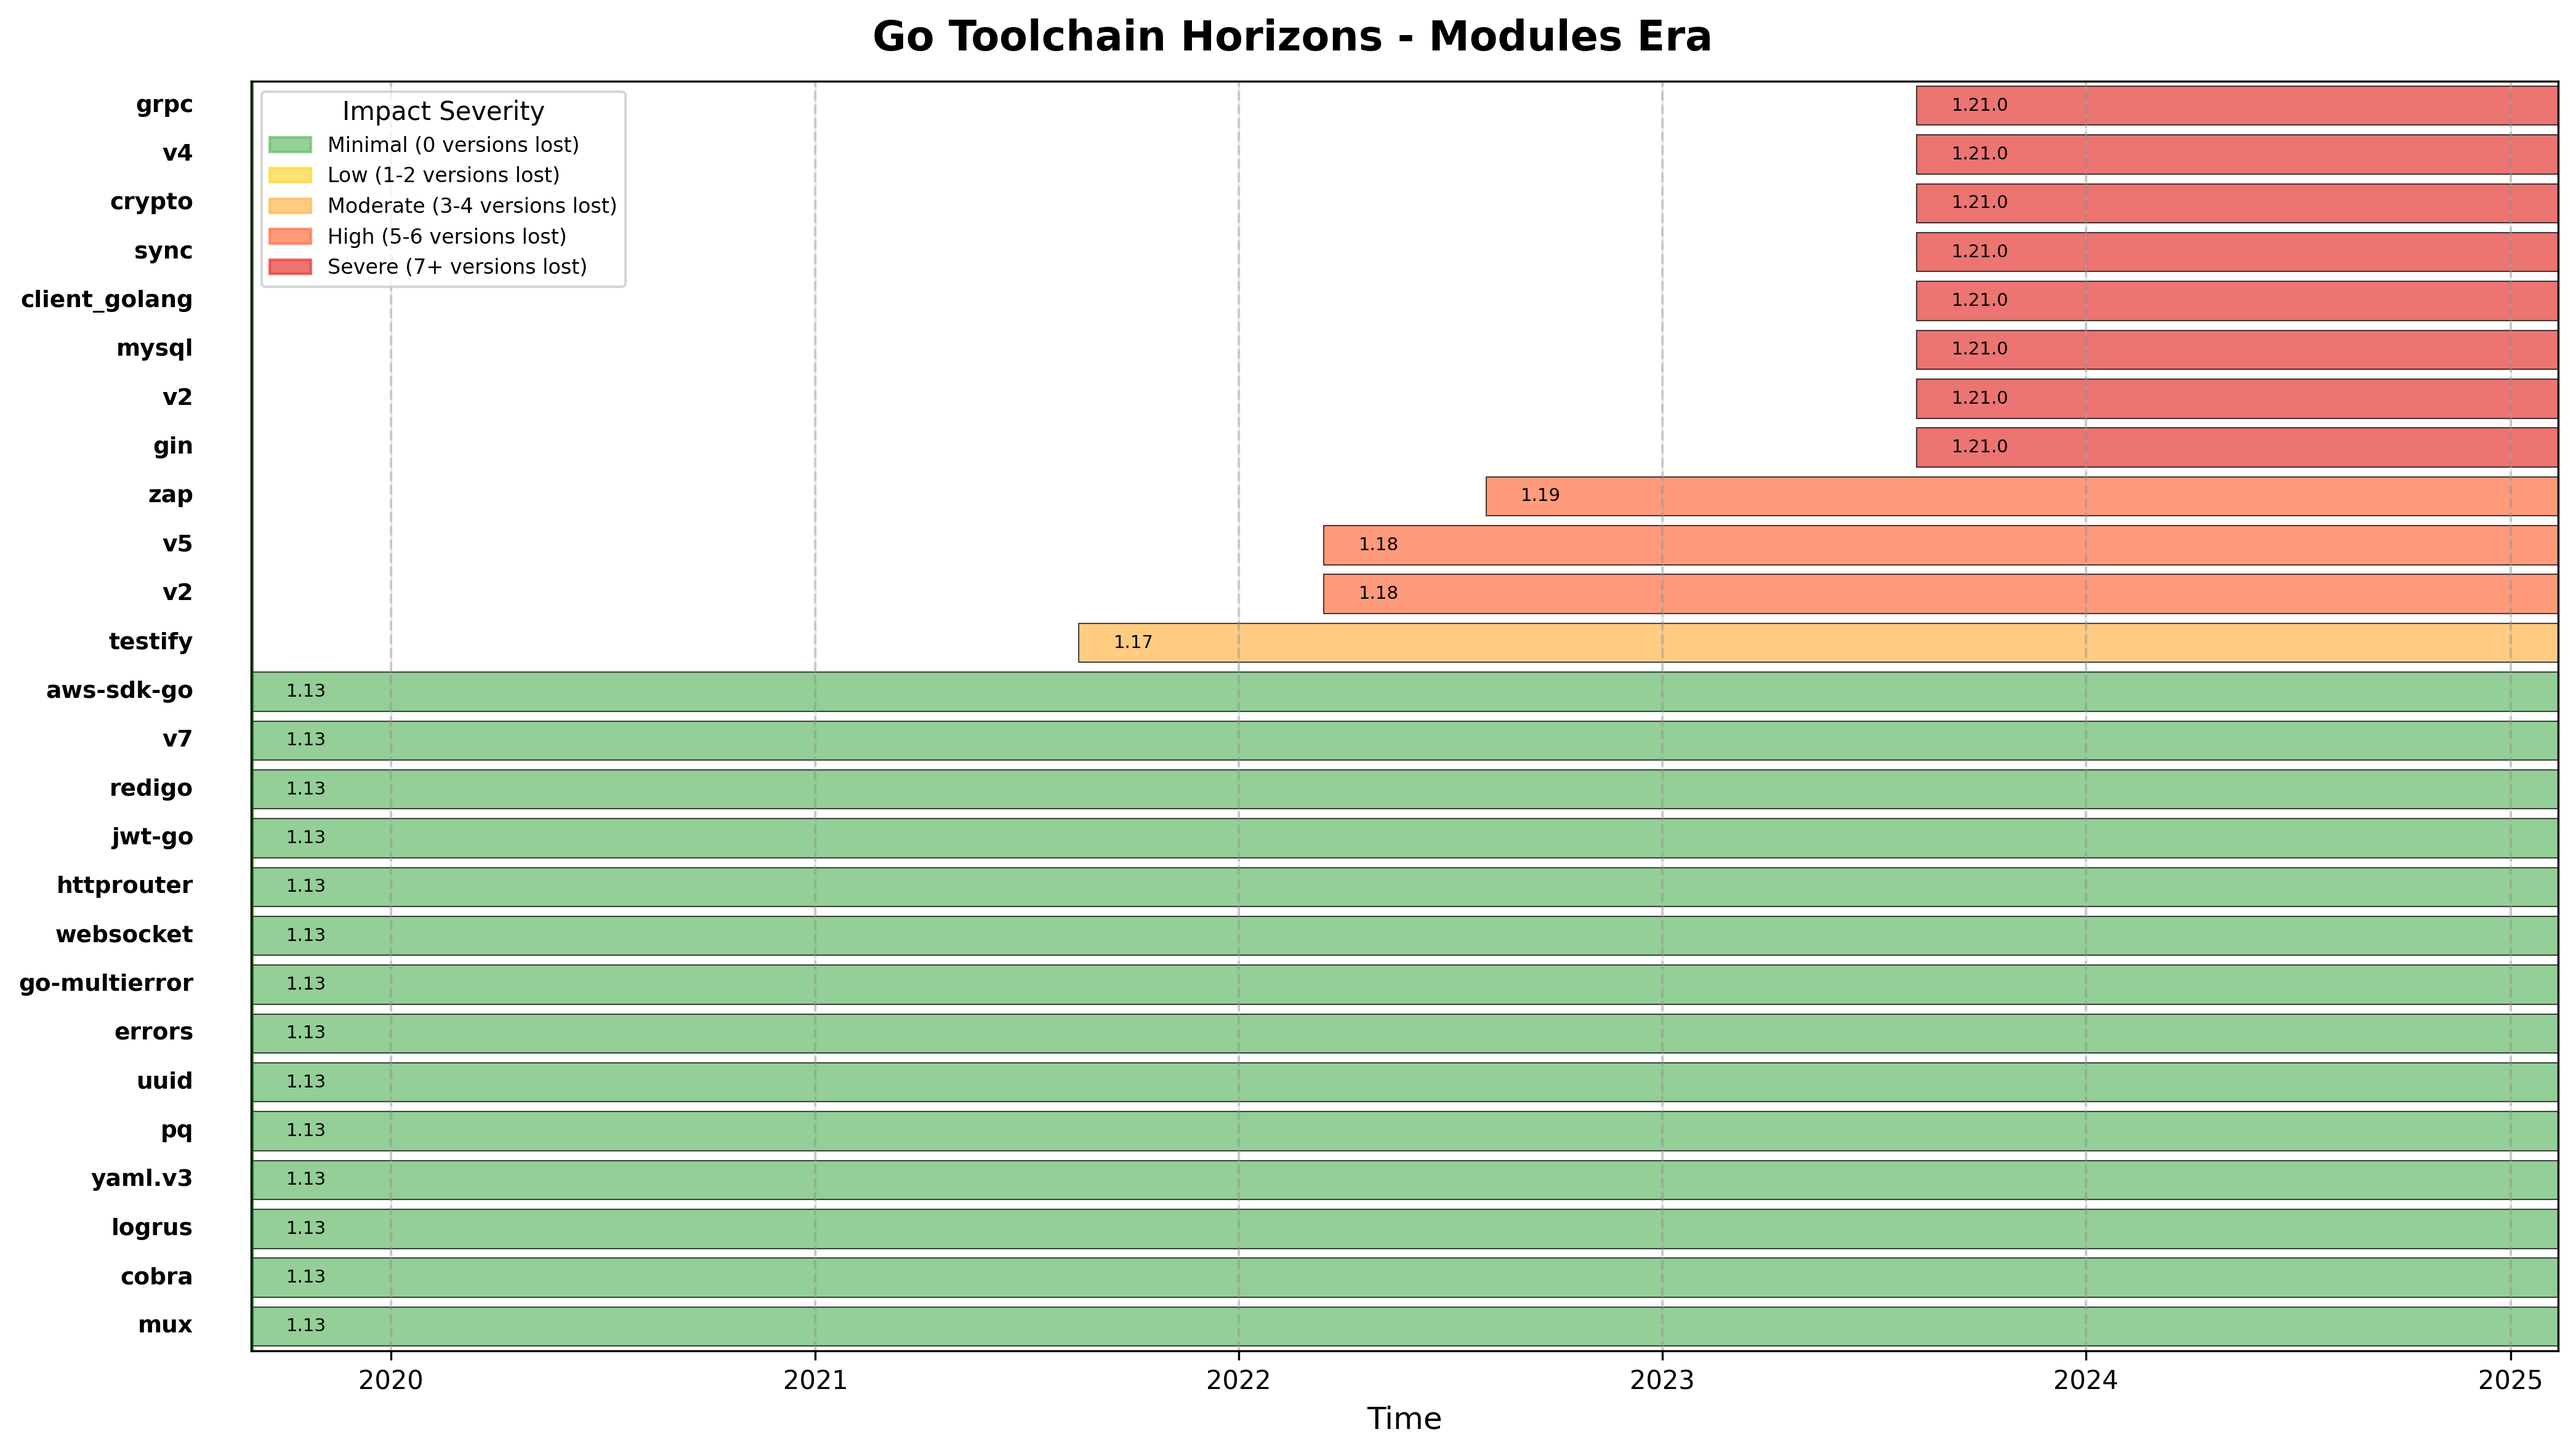
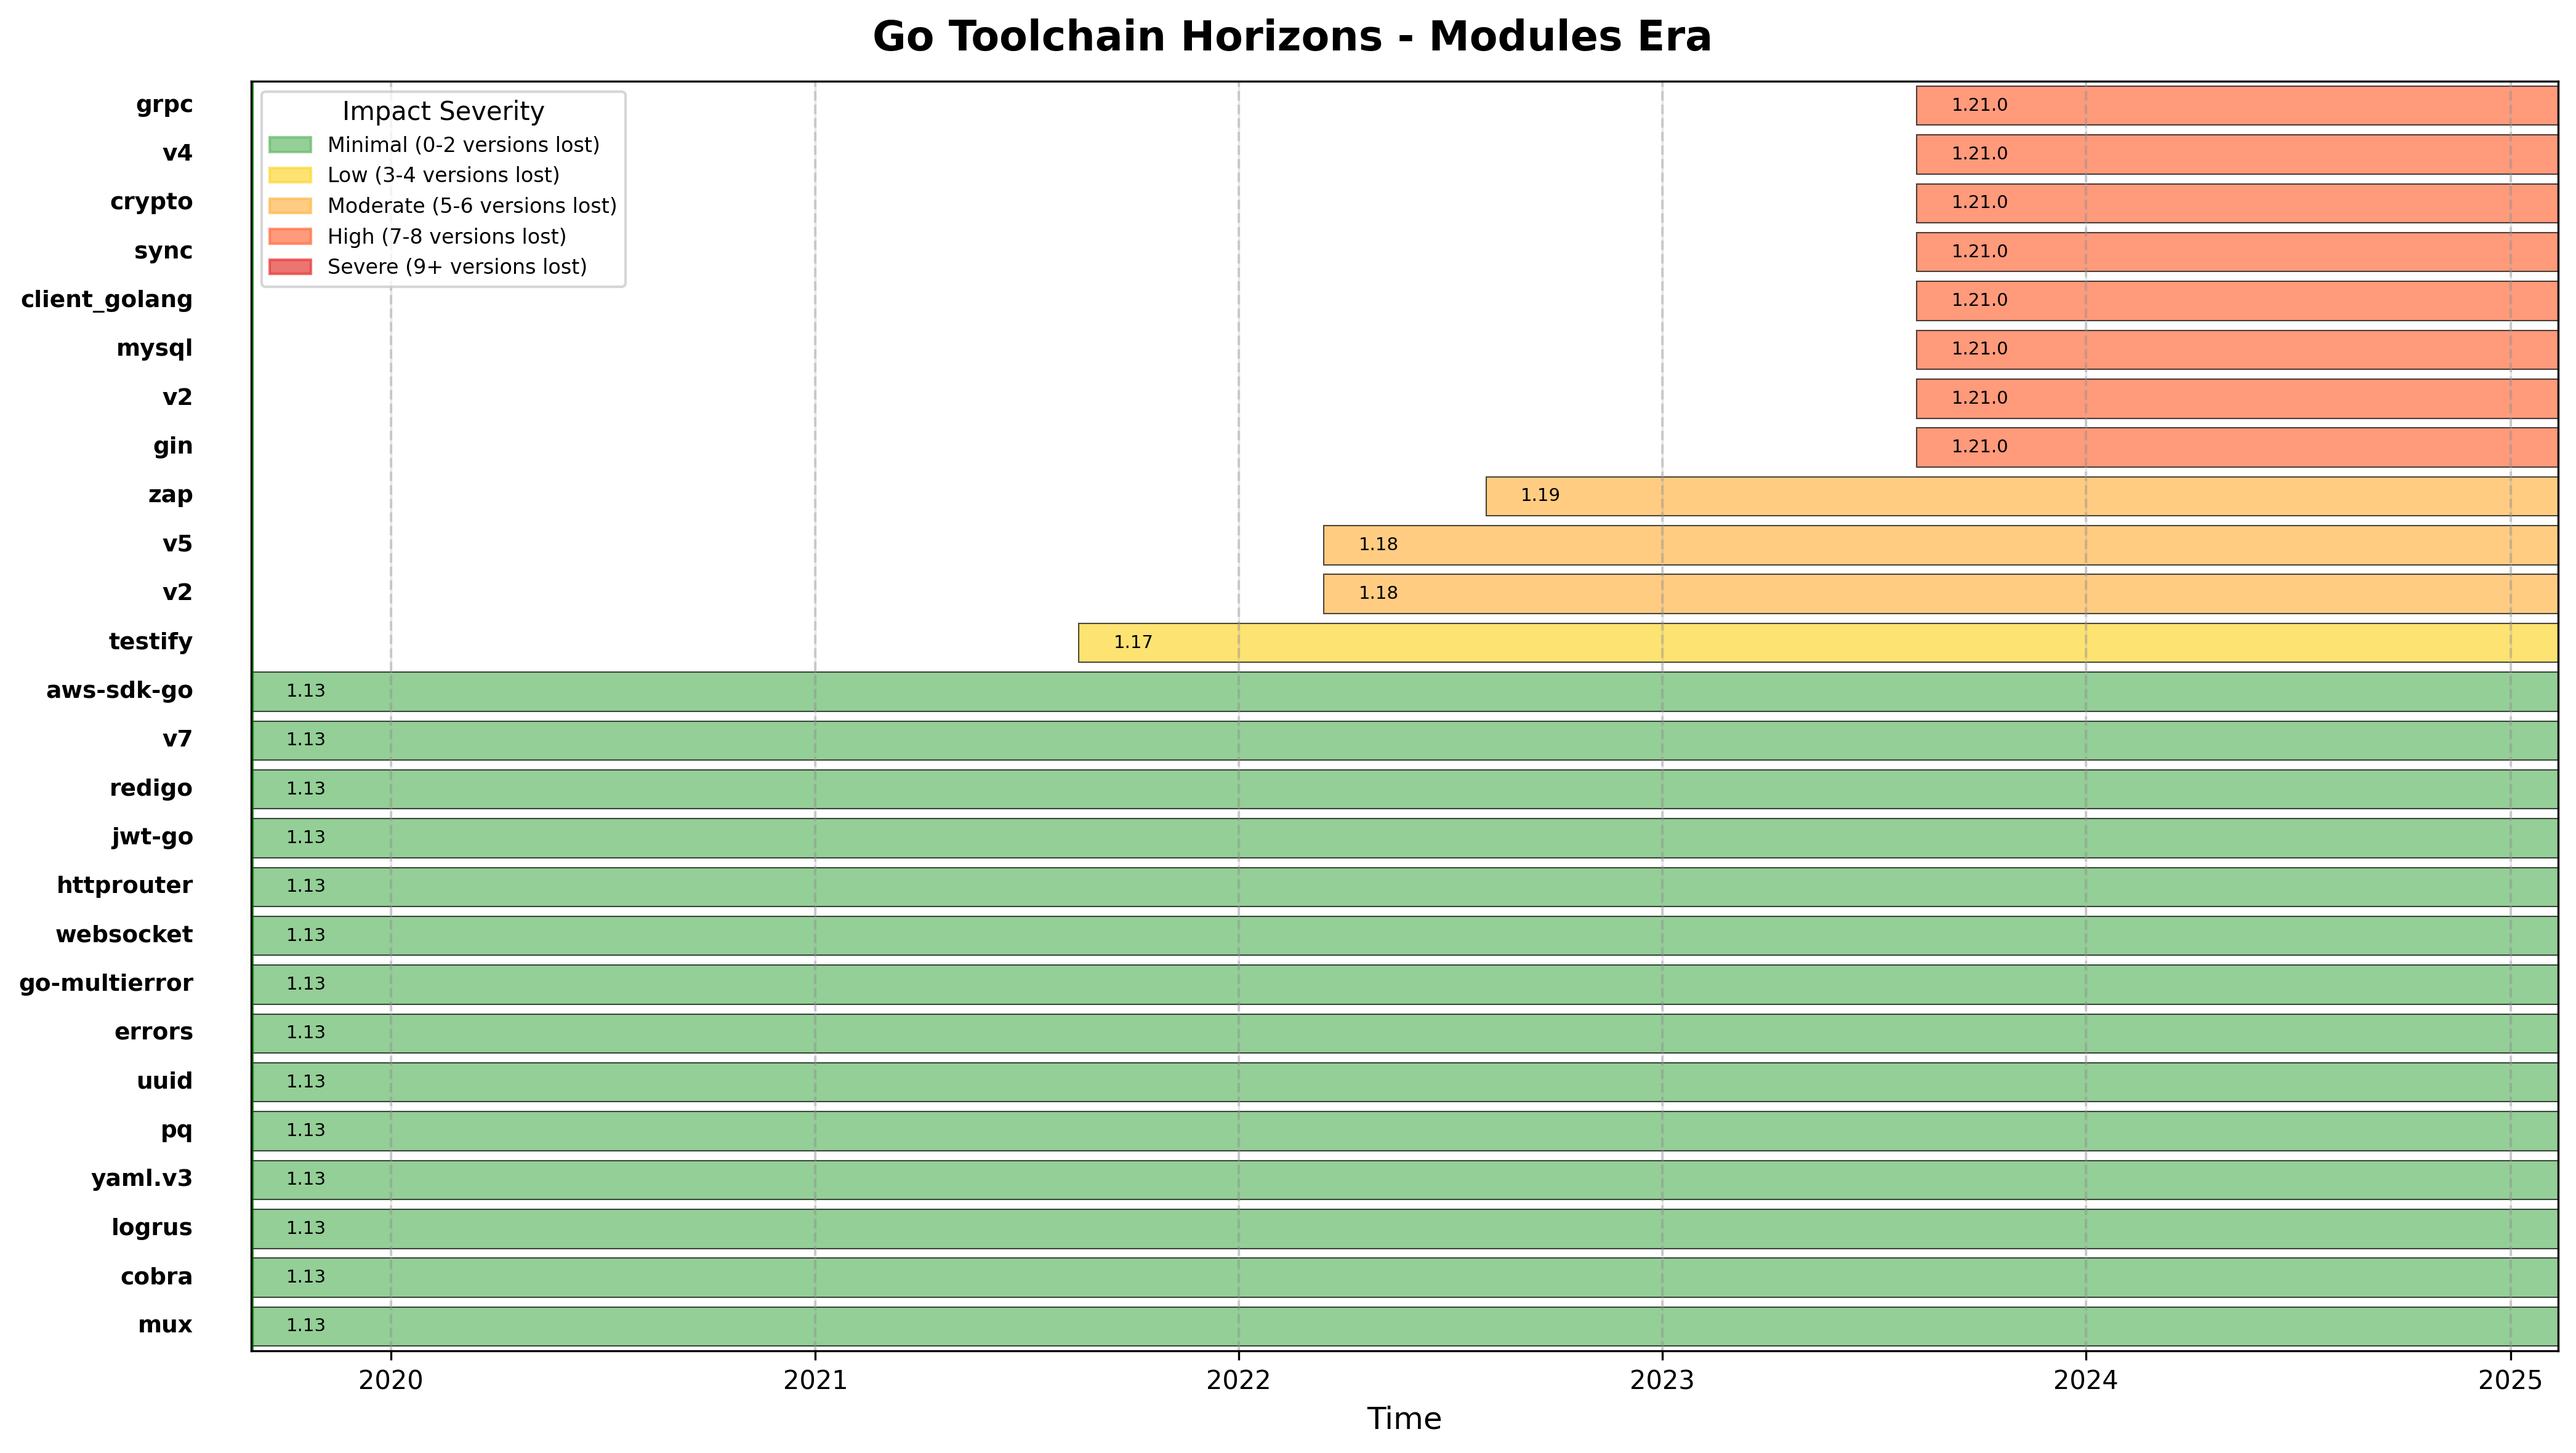
visualize

Changed region(s): [[0.4971, 0.0618, 0.9943, 0.4329], [0.1554, 0.0928, 0.2175, 0.1237]]

diff --git a/visualize-rust.py b/visualize-rust.py
@@ -123,8 +123,8 @@ rust_versions = {
     '1.90.0': ('2024-12-01', 90),
 }
 
-# Baseline.
-baseline_version = '1.16.0'
+# Baseline: Edition 2018 stabilized in Rust 1.31.
+baseline_version = '1.31.1'
 baseline_date = datetime.strptime(rust_versions[baseline_version][0], '%Y-%m-%d')
 latest_date = datetime.strptime(rust_versions['1.90.0'][0], '%Y-%m-%d')
 
@@ -143,18 +143,16 @@ for crate in results:
     versions_lost = rust_versions[oldest][1] - rust_versions[baseline_version][1]
 
     # Categorize impact.
-    if versions_lost <= 5:
+    if versions_lost <= 15:
         impact = 'minimal'
-    elif versions_lost <= 25:
+    elif versions_lost <= 30:
         impact = 'low'
     elif versions_lost <= 40:
         impact = 'moderate'
     elif versions_lost <= 50:
         impact = 'high'
-    elif versions_lost <= 60:
-        impact = 'severe'
     else:
-        impact = 'extreme'
+        impact = 'severe'
 
     crates_data.append((
         crate['crate_name'],
@@ -211,7 +209,7 @@ ax1.set_yticks([])
 
 # Add year markers
 year_markers = []
-for year in range(2017, 2025):
+for year in range(2019, 2026):
     year_date = datetime(year, 1, 1)
     if year_date >= baseline_date and year_date <= latest_date:
         days_from_start = (year_date - baseline_date).days
@@ -230,12 +228,11 @@ baseline_line = ax1.axvline(0, color='green', linestyle='-', linewidth=cs.BASELI
 
 # Create legend for impact levels
 legend_elements = [
-    mpatches.Patch(color=color_map["minimal"], label='Minimal (<=5 versions lost)', alpha=cs.BAR_ALPHA),
-    mpatches.Patch(color=color_map["low"], label='Low (6-25 versions lost)', alpha=cs.BAR_ALPHA),
-    mpatches.Patch(color=color_map["moderate"], label='Moderate (26-40 versions lost)', alpha=cs.BAR_ALPHA),
+    mpatches.Patch(color=color_map["minimal"], label='Minimal (<=15 versions lost)', alpha=cs.BAR_ALPHA),
+    mpatches.Patch(color=color_map["low"], label='Low (16-30 versions lost)', alpha=cs.BAR_ALPHA),
+    mpatches.Patch(color=color_map["moderate"], label='Moderate (31-40 versions lost)', alpha=cs.BAR_ALPHA),
     mpatches.Patch(color=color_map["high"], label='High (41-50 versions lost)', alpha=cs.BAR_ALPHA),
-    mpatches.Patch(color=color_map["severe"], label='Severe (51-60 versions lost)', alpha=cs.BAR_ALPHA),
-    mpatches.Patch(color=color_map["extreme"], label='Extreme (>60 versions lost)', alpha=cs.BAR_ALPHA),
+    mpatches.Patch(color=color_map["severe"], label='Severe (>50 versions lost)', alpha=cs.BAR_ALPHA),
 ]
 ax1.legend(handles=legend_elements, loc='upper left', fontsize=int(cs.FONT_LEGEND*fs), title='Impact Severity')
 

diff --git a/visualize-go.py b/visualize-go.py
@@ -67,14 +67,14 @@ for package in results:
     package_date = datetime.strptime(go_versions[oldest][0], '%Y-%m-%d')
     versions_lost = go_versions[oldest][1] - go_versions[baseline_version][1]
 
-    # Categorize impact.
-    if versions_lost == 0:
+    # Categorize impact (shifted to be comparable to Rust timescales).
+    if versions_lost <= 2:
         impact = 'minimal'
-    elif versions_lost <= 2:
-        impact = 'low'
     elif versions_lost <= 4:
-        impact = 'moderate'
+        impact = 'low'
     elif versions_lost <= 6:
+        impact = 'moderate'
+    elif versions_lost <= 8:
         impact = 'high'
     else:
         impact = 'severe'
@@ -155,11 +155,11 @@ baseline_line = ax1.axvline(0, color='green', linestyle='-', linewidth=cs.BASELI
 
 # Create legend for impact levels
 legend_elements = [
-    mpatches.Patch(color=color_map["minimal"], label='Minimal (0 versions lost)', alpha=cs.BAR_ALPHA),
-    mpatches.Patch(color=color_map["low"], label='Low (1-2 versions lost)', alpha=cs.BAR_ALPHA),
-    mpatches.Patch(color=color_map["moderate"], label='Moderate (3-4 versions lost)', alpha=cs.BAR_ALPHA),
-    mpatches.Patch(color=color_map["high"], label='High (5-6 versions lost)', alpha=cs.BAR_ALPHA),
-    mpatches.Patch(color=color_map["severe"], label='Severe (7+ versions lost)', alpha=cs.BAR_ALPHA),
+    mpatches.Patch(color=color_map["minimal"], label='Minimal (0-2 versions lost)', alpha=cs.BAR_ALPHA),
+    mpatches.Patch(color=color_map["low"], label='Low (3-4 versions lost)', alpha=cs.BAR_ALPHA),
+    mpatches.Patch(color=color_map["moderate"], label='Moderate (5-6 versions lost)', alpha=cs.BAR_ALPHA),
+    mpatches.Patch(color=color_map["high"], label='High (7-8 versions lost)', alpha=cs.BAR_ALPHA),
+    mpatches.Patch(color=color_map["severe"], label='Severe (9+ versions lost)', alpha=cs.BAR_ALPHA),
 ]
 ax1.legend(handles=legend_elements, loc='upper left', fontsize=int(cs.FONT_LEGEND*fs), title='Impact Severity')
 

diff --git a/visualize-rust-dist.py b/visualize-rust-dist.py
@@ -40,7 +40,7 @@ rust_versions = {
     '1.86.0': 86, '1.87.0': 87, '1.88.0': 88, '1.89.0': 89, '1.90.0': 90,
 }
 
-baseline_version = '1.16.0'
+baseline_version = '1.31.1'
 
 # Process data and categorize impact.
 impact_counts = {}
@@ -54,24 +54,22 @@ for crate in results:
 
     versions_lost = rust_versions.get(oldest, 0) - rust_versions[baseline_version]
 
-    if versions_lost <= 5:
+    if versions_lost <= 15:
         impact = 'minimal'
-    elif versions_lost <= 25:
+    elif versions_lost <= 30:
         impact = 'low'
     elif versions_lost <= 40:
         impact = 'moderate'
     elif versions_lost <= 50:
         impact = 'high'
-    elif versions_lost <= 60:
-        impact = 'severe'
     else:
-        impact = 'extreme'
+        impact = 'severe'
 
     impact_counts[impact] = impact_counts.get(impact, 0) + 1
 
 # Create distribution chart.
 color_map = cs.COLOR_MAP
-impact_order = ["minimal", "low", "moderate", "high", "severe", "extreme"]
+impact_order = ["minimal", "low", "moderate", "high", "severe"]
 counts = [impact_counts.get(imp, 0) for imp in impact_order]
 colors = [color_map[imp] for imp in impact_order]
 

diff --git a/visualize-go-dist.py b/visualize-go-dist.py
@@ -45,13 +45,13 @@ for package in results:
 
     versions_lost = go_versions.get(oldest, 0) - go_versions[baseline_version]
 
-    if versions_lost == 0:
+    if versions_lost <= 2:
         impact = 'minimal'
-    elif versions_lost <= 2:
-        impact = 'low'
     elif versions_lost <= 4:
-        impact = 'moderate'
+        impact = 'low'
     elif versions_lost <= 6:
+        impact = 'moderate'
+    elif versions_lost <= 8:
         impact = 'high'
     else:
         impact = 'severe'
